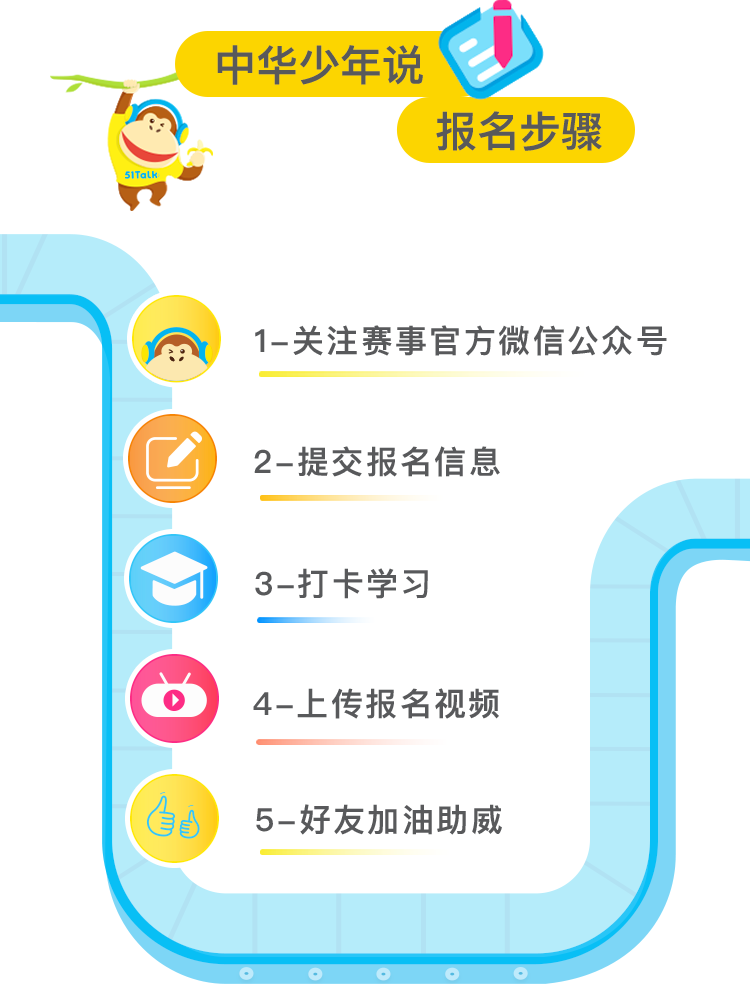
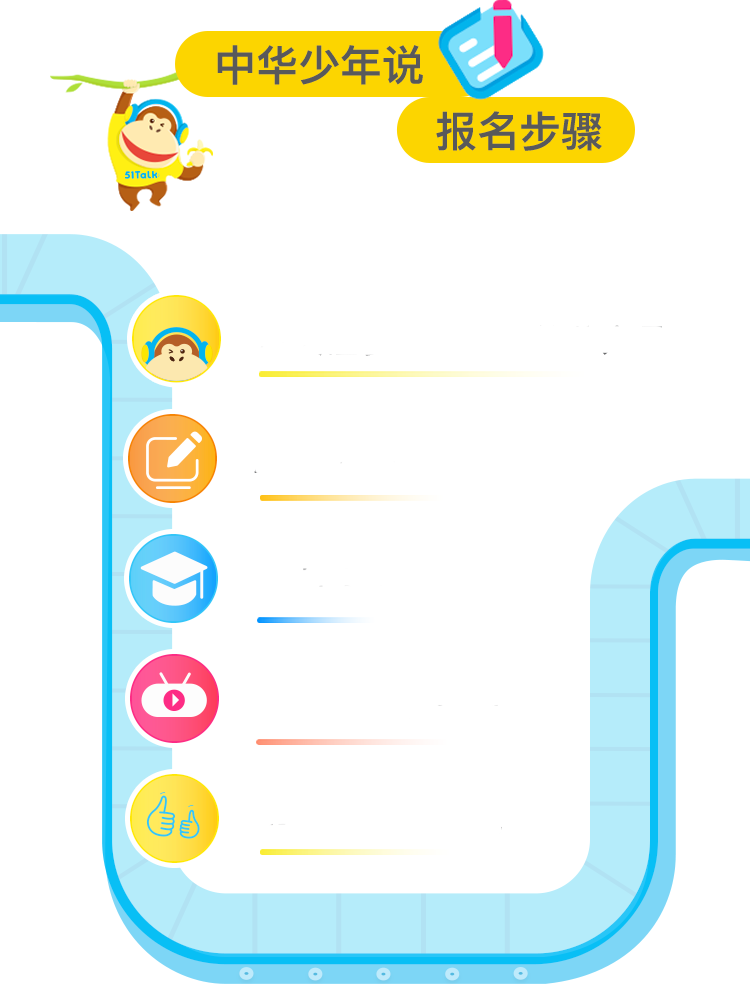
index

diff --git a/src/scss/index.scss b/src/scss/index.scss
@@ -381,6 +381,14 @@
                 border-radius: pxToRem(10px);
             }
         }
+        .word{
+            color: #333333;
+            @include font-dpr(28px,48px);
+            text-align: right;
+            position: absolute;
+            top:pxToRem(800px);
+            left: pxToRem(50px);
+        }
     }
 
     .enroll-progress{
@@ -405,6 +413,46 @@
             animation: enrollBelow .5s infinite alternate;
             z-index: 999;
         }
+
+        .column1{
+            position: absolute;
+            top: pxToRem(320px);
+            left: pxToRem(260px);
+            @include font-dpr(32px);
+            color: #58595b;
+        }
+
+        .column2{
+            position: absolute;
+            top: pxToRem(440px);
+            left: pxToRem(260px);
+            @include font-dpr(32px);
+            color: #58595b;
+        }
+
+        .column3{
+            position: absolute;
+            top: pxToRem(560px);
+            left: pxToRem(260px);
+            @include font-dpr(32px);
+            color: #58595b;
+        }
+
+        .column4{
+            position: absolute;
+            top: pxToRem(685px);
+            left: pxToRem(260px);
+            @include font-dpr(32px);
+            color: #58595b;
+        }
+
+        .column5{
+            position: absolute;
+            top: pxToRem(800px);
+            left: pxToRem(260px);
+            @include font-dpr(32px);
+            color: #58595b;
+        }
     }
 
     .operation{
@@ -422,5 +470,11 @@
         background-image: url('../images/index/copyRight.png');
         background-repeat: no-repeat;
         background-size: 100% 100%;
+    }
+}
+
+@media (device-width:320px) and (-webkit-min-device-pixel-ratio:2){/* 兼容iphone4/5 */
+    .index-container .star-cheer .word {
+        @include font-dpr(16px,36px);
     }
 }

diff --git a/html/index.html b/html/index.html
@@ -213,6 +213,10 @@
             <img class="qcodeBox" src="../static/images/index/qcodeBox.png" />
             <!---二维码-->
             <img class="qcode" src="../static/images/index/qcode.png" />
+            <p class="word">
+                长按扫描二维码<br>
+                观看8位明星助威完整视频
+            </p>
             <div class="advertise-container">
                 <div class="swiper-wrapper">
                     <div class="swiper-slide" data-id="1">
@@ -223,6 +227,11 @@
         </div>
         <div class="enroll-progress">
             <a class="enroll-below" href="#"></a>
+            <p class="column1">1-关注活动官方微信公众号</p>
+            <p class="column2">2-提交报名信息</p>
+            <p class="column3">3-打卡学习</p>
+            <p class="column4">4-上传报名视频</p>
+            <p class="column5">5-好友加油助威</p>
         </div>
         <div class="operation"></div>
         <div class="footer"></div>
